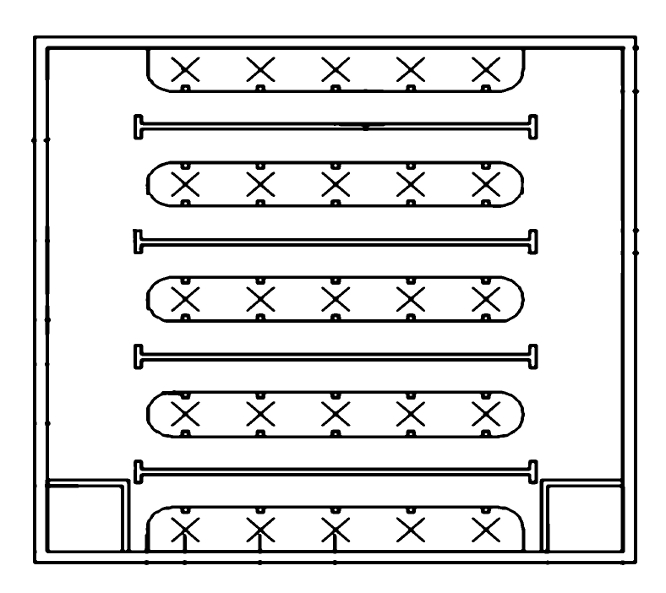
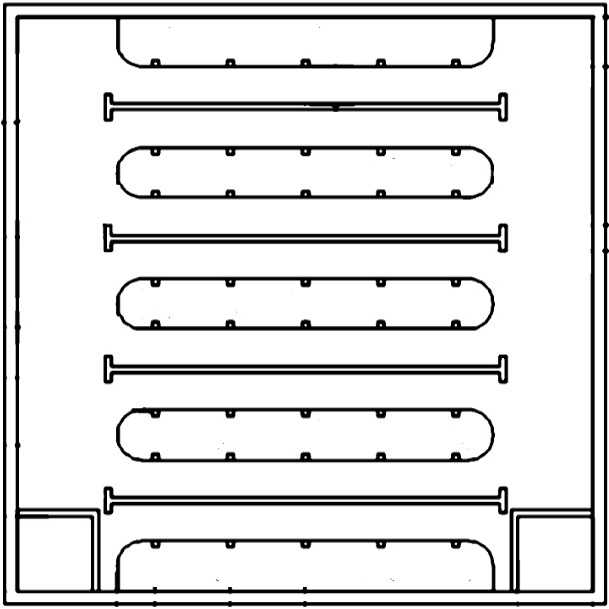
good progress, need bharath to get his shit together

diff --git a/server.py b/server.py
@@ -128,6 +128,7 @@ class Server:
         self.row_num = 0
         self.plant_num = 0
         self.block_num = 0
+        self.observed_plants = []
         self.collected_plants = {
             'green' : {
                 'short' : False,
@@ -165,8 +166,8 @@ class Server:
                         grab()
             jump()
         """
-        last_action = request['last_action']
-        self.pretty_print("DECIDE", "Last Action: %s" % last_action)
+        self.pretty_print("DECIDE", "Last Action: %s" % request['last_action'])
+        self.pretty_print("DECIDE", "Result: %s" % request['result'])
         self.pretty_print("DECIDE", "Row: %d" % self.row_num)
         self.pretty_print("DECIDE", "Plants Observed: %d" % self.plant_num)
         self.pretty_print("DECIDE", "Blocks Collected: %d" % self.block_num)
@@ -174,9 +175,10 @@ class Server:
             action = 'wait'       
         elif (self.row_num < self.NUM_ROWS) and (self.plant_num < self.NUM_PLANTS):
             if self.num_actions == 0:
-                action = 'begin'           
+                action = 'begin'
             if request['last_action'] == 'begin':
                 action = 'align'
+                self.row_num = 1
             if request['last_action'] == 'align':
                 action = 'seek'
             if request['last_action'] == 'seek':
@@ -186,11 +188,13 @@ class Server:
                 if request['at_end'] == 1:
                     action = 'jump'
                 elif request['at_plant'] != 0:
-                    (color, height, is_new) = self.identify_plant(request['img'])
-                    if is_new:
-                        action = 'grab'
-                    else:
+                    (color, height) = self.identify_plant(request['img'])
+                    self.observed_plants.append((row, plant, color, height))
+                    if self.collected_plants[color][height] == True: # check if plant type has been seen yet
                         action = 'seek'
+                    else:
+                        self.collected_plants[color][height] = True # if not, set to true and grab
+                        action = 'grab'
             if request['last_action'] == 'turn':
                 action = 'align'
             if request['last_action'] == 'grab':
@@ -203,19 +207,15 @@ class Server:
         return action
     def identify_plant(self, bgr):
         """
-        color : green, yellow, brown
-        height: short, tall
-        is_new : true/false
+        Returns:
+            color : green, yellow, brown
+            height: short, tall
+            is_new : true/false
         """
         if self.VERBOSE: self.pretty_print("CV2", "Identifying plant phenotype ...")
         height = 'short'
         color = 'green'
-        if self.collected_plants[color][height] == True:
-            is_new = False
-        else:
-            is_new = True
-            self.collected_plants[color][height] = True # set to true
-        return color, height, is_new
+        return color, height
         
     ## CherryPy Functions
     def __init_tasks__(self):
@@ -236,8 +236,8 @@ class Server:
     def refresh(self):
         """ Update the GUI """
         if self.VERBOSE: self.pretty_print('CHERRYPY', 'Updating GUI ...')
+        self.gui.draw_board(self.observed_plants)
         self.gui.update_gui()
-        self.gui.show_board()
     @cherrypy.expose
     def index(self):
         """ Render index page """
@@ -272,7 +272,7 @@ class Server:
         self.running = False
     def reset(self, object):
         self.pretty_print("GUI", "Resetting to start ...")
-        pass
+        self.__init_statemachine__() # reset values
     def shutdown(self, object):
         self.pretty_print("GUI", "Executing reboot ...")
         pass
@@ -304,26 +304,19 @@ class GUI(object):
             self.window.add(self.vbox)
             self.hbox = gtk.VBox(False, 0)
             self.hbox.show()
-            # Run Button
-            self.button_run = gtk.Button("Run")
+            # Buttons
+            self.button_run = gtk.Button("Run") # Run Button
             self.button_run.connect("clicked", object.run)
             self.hbox.pack_start(self.button_run, True, True, 0)
             self.button_run.show()
-            # Stop Button
-            self.button_stop = gtk.Button("Stop")
+            self.button_stop = gtk.Button("Stop") # Stop Button
             self.button_stop.connect("clicked", object.stop)
             self.hbox.pack_start(self.button_stop, True, True, 0)
             self.button_stop.show()
-            # Reset Button
-            self.button_reset = gtk.Button("Reset")
+            self.button_reset = gtk.Button("Reset") # Reset Button
             self.button_reset.connect("clicked", object.reset)
             self.hbox.pack_start(self.button_reset, True, True, 0)
             self.button_reset.show()
-            # Shutdown Button
-            self.button_shutdown = gtk.Button("Shutdown")
-            self.button_shutdown.connect("clicked", object.shutdown)
-            self.hbox.pack_start(self.button_shutdown, True, True, 0)
-            self.button_shutdown.show()
             self.vbox.add(self.hbox)
             # Board Image
             self.bgr = cv2.imread(object.GUI_IMAGE)
@@ -341,14 +334,27 @@ class GUI(object):
         while gtk.events_pending():
             gtk.main_iteration_do(False)
     
-    ## Show Board
-    def show_board(self, img_path='static/board.jpg'):
+    ## Draw Board
+    def draw_board(self, observed_plants, x=75, y=133, x_pad=154, y_pad=40, brown=(116,60,12), yellow=(219,199,6), green=(0,255,0), tall=10, short=5):
         try:
-            board = cv2.imread(img_path)
-            (w,h,d) = board.shape
-            #!TODO draw board
+            (W,H,D) = self.bgr.shape
+            for (r,p,c,h) in observed_plants:
+                if h == 'tall':
+                    radius = tall
+                if h == 'short':
+                    radius = short
+                if c == 'green':
+                    color = green
+                if c == 'yellow':
+                    color = yellow
+                if c == 'brown':
+                    color = brown
+                center = (W - (((p-1) * x) + x_pad), H - (((r-1) * y) + y_pad))
+                cv2.circle(self.bgr, center, radius, color, thickness=20)
+            self.pix = gtk.gdk.pixbuf_new_from_array(self.bgr, gtk.gdk.COLORSPACE_RGB, 8)
+            self.image.set_from_pixbuf(self.pix)
         except Exception as e:
-            raise e
+            print str(e)
 
 # Main
 if __name__ == '__main__':

diff --git a/robot.py b/robot.py
@@ -104,6 +104,7 @@ class Robot:
             request = {
                 'type' : 'request',
                 'last_action' : last_action,
+                'result' : status['result'],
                 'at_end' : status['at_end'],
                 'at_plant' : status['at_plant'],
                 'bgr' : bgr.tolist()
@@ -158,6 +159,7 @@ class Robot:
             'at_plant' : False,
             'at_end' : False,
             'command' : '?',
+            'result' : 255
         }
         bgr = np.zeros((self.CAMERA_WIDTH, self.CAMERA_HEIGHT, 3))
         while True:
